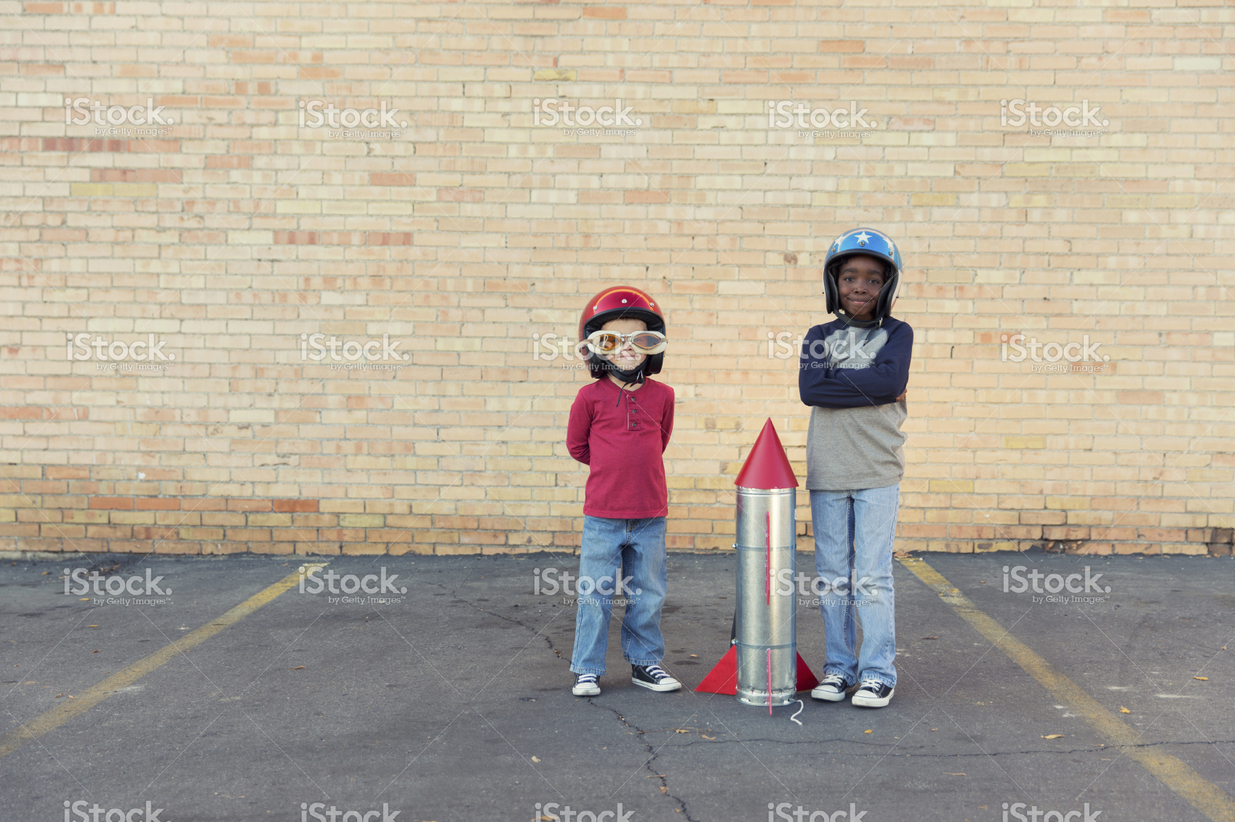
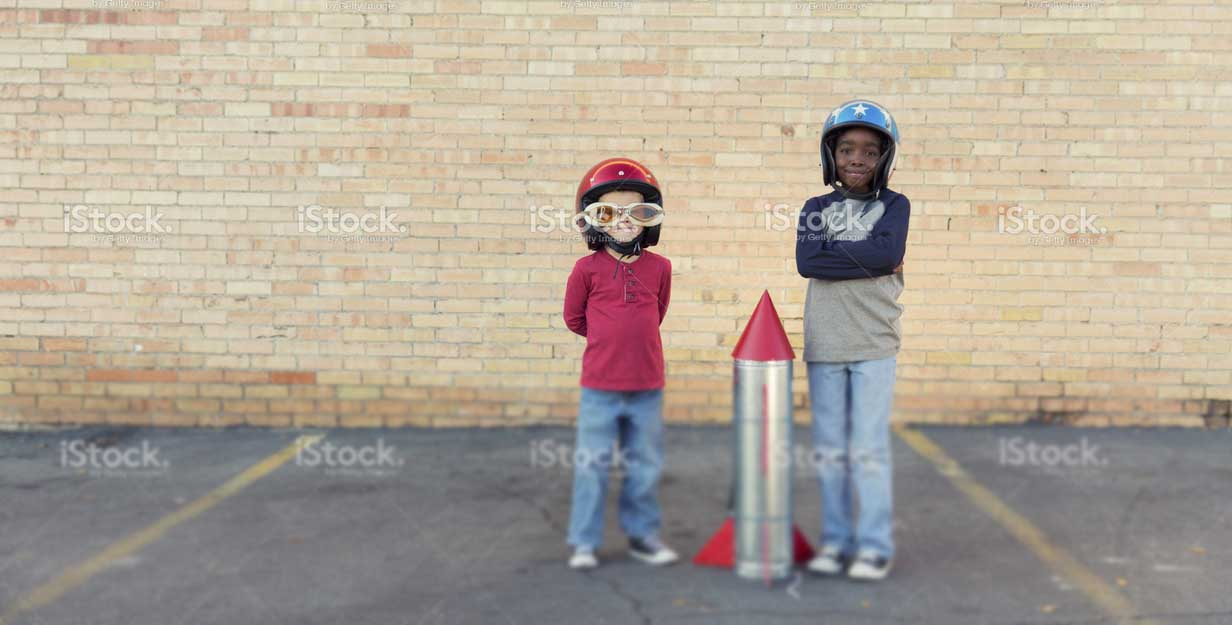
Clean up header, edit header image

diff --git a/_includes/css/agency.css b/_includes/css/agency.css
@@ -182,8 +182,14 @@ fieldset[disabled] .btn-xl.active {
 }
 
 .navbar-default .navbar-brand {
-    font-family: "Roboto Slab","Helvetica Neue",Helvetica,Arial,cursive;
+    /*font-family: "Roboto Slab","Helvetica Neue",Helvetica,Arial,cursive;*/
     color: #{{ site.color.title }};
+    font-weight: 700;
+    margin-top: -15px;
+}
+
+.navbar>.container-fluid .navbar-brand {
+  margin-left: -15px;
 }
 
 .navbar-default .navbar-brand:hover,
@@ -214,9 +220,10 @@ fieldset[disabled] .btn-xl.active {
 .navbar-default .nav li a {
     text-transform: uppercase;
     font-family: "Open Sans","Helvetica Neue",Helvetica,Arial,sans-serif;
-    font-weight: 300;
+    font-weight: 700;
     letter-spacing: 1px;
     color: #fff;
+    font-size: 20px;
 }
 
 .navbar-default .nav li a:hover,
@@ -248,7 +255,7 @@ fieldset[disabled] .btn-xl.active {
     }
 
     .navbar-default .navbar-brand {
-        font-size: 2em;
+        font-size: 3em;
         -webkit-transition: all .3s;
         -moz-transition: all .3s;
         transition: all .3s;
@@ -260,12 +267,14 @@ fieldset[disabled] .btn-xl.active {
 
     .navbar-default.navbar-shrink {
         padding: 10px 0;
-        background-color: #222;
+        background-color: #333;
     }
 
     .navbar-default.navbar-shrink .navbar-brand {
-        font-size: 1.5em;
+        margin-top: -5px;
+        font-size: 2em;
     }
+
 }
 
 header {
@@ -306,8 +315,8 @@ header .intro-text .intro-heading {
 
 @media(min-width:768px) {
     header .intro-text {
-        padding-top: 300px;
-        padding-bottom: 200px;
+        padding-top: 500px;
+        padding-bottom: 100px;
     }
 
     header .intro-text .intro-lead-in {
@@ -320,7 +329,7 @@ header .intro-text .intro-heading {
     }
 
     header .intro-text .intro-heading {
-        margin-bottom: 50px;
+        margin-bottom: 30px;
         text-transform: uppercase;
         font-family: "Open Sans","Helvetica Neue",Helvetica,Arial,sans-serif;
         font-size: 75px;

diff --git a/_includes/header.html b/_includes/header.html
@@ -9,7 +9,7 @@
                     <span class="icon-bar"></span>
                     <span class="icon-bar"></span>
                 </button>
-                <a class="navbar-brand page-scroll" href="#page-top">{{site.title}}</a>
+                <a class="navbar-brand page-scroll" href="#page-top"><i class="fa fa-rocket"></i> {{site.title}}</a>
             </div>
 
             <!-- Collect the nav links, forms, and other content for toggling -->
@@ -44,10 +44,10 @@
     <header>
         <div class="container">
             <div class="intro-text">
-                <div class="intro-lead-in">Product development on steriods.</div>
+                <!-- <div class="intro-lead-in">Product development on steriods.</div> -->
                 <div class="intro-heading">Design. Build. Launch.</div>
                 <div class="intro-sub-heading">20 people, 30 days, 20 launches!</div>
-                <a href="https://manu17.typeform.com/to/ifqja7" class="page-scroll btn btn-xl">Apply Now</a>
+                <!-- <a href="https://manu17.typeform.com/to/ifqja7" class="page-scroll btn btn-xl">Apply Now</a> -->
             </div>
         </div>
     </header>

diff --git a/_includes/benefits2.html b/_includes/benefits2.html
@@ -3,7 +3,7 @@
         <div class="container">
             <div class="row">
                 <div class="col-lg-12 text-center">
-                    <h2 class="section-heading">Quickly</h2>
+                    <h2 class="section-heading">Product development on steriods</h2>
                     <h3 class="section-subheading text-muted"></h3>
                 </div>
             </div>

diff --git a/_layouts/v1.html b/_layouts/v1.html
@@ -3,7 +3,6 @@
 
   {% include head.html %}
 
-
     <body id="page-top" class="index">
 
     {% include header.html %}

diff --git a/index.html b/index.html
@@ -1,5 +1,5 @@
 ---
-layout: default
+layout: v1
 ---
 
 <div class="home">
